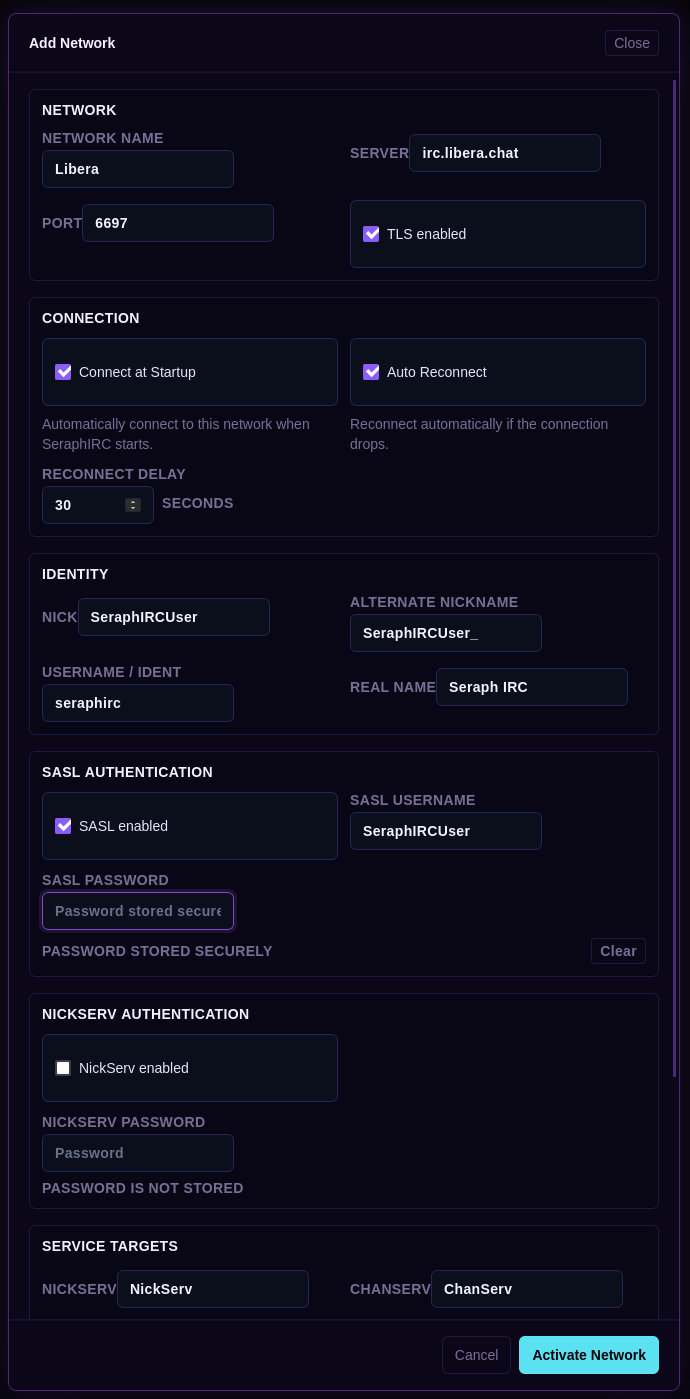
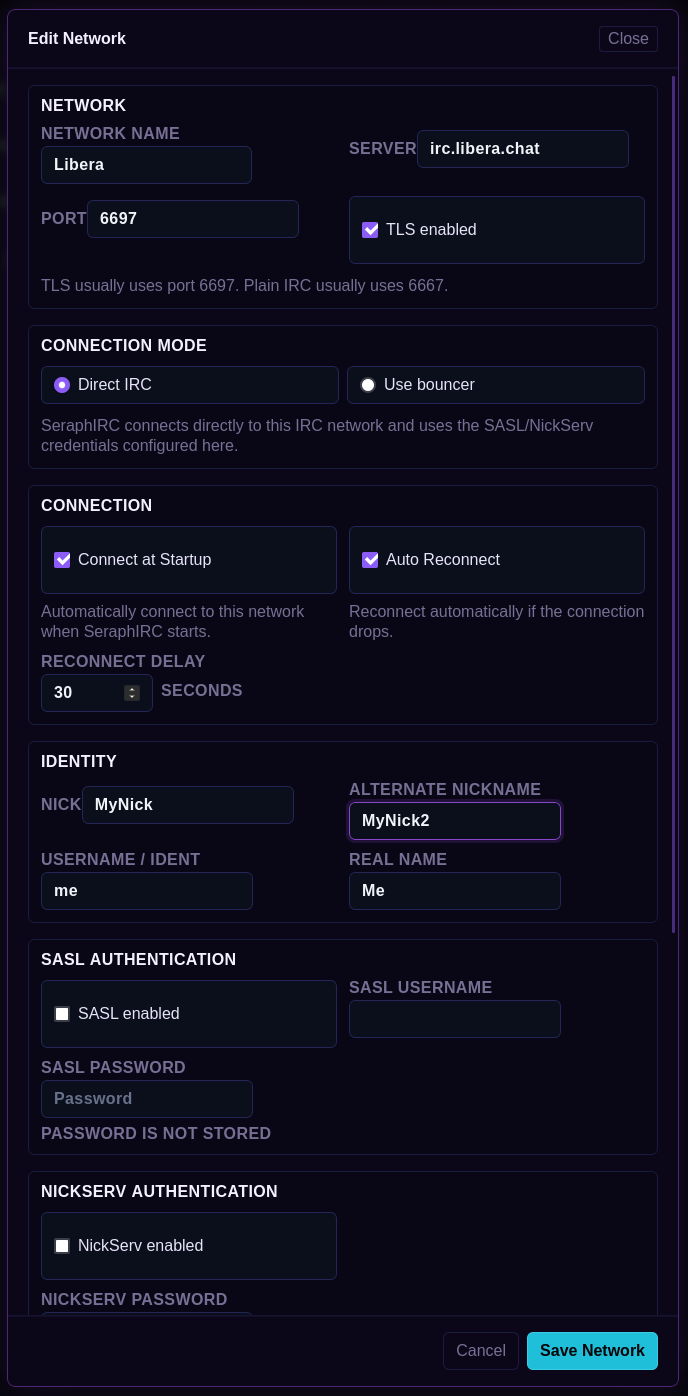
Added new config mgr shot

diff --git a/index.html b/index.html
@@ -359,6 +359,9 @@
                 information. You may also scroll to the bottom to configure any autojoin settings
                 for the configured network. Once complete, click the "Activate Network" button,
                 which will proceed to connect.
+
+                For Advanced Users, ZNC and Soju per-network support is available by configuring
+                a bouncer profile in Settings > Bouncer Profiles.
               </p>
             </div>
             <figure class="guide-shot">